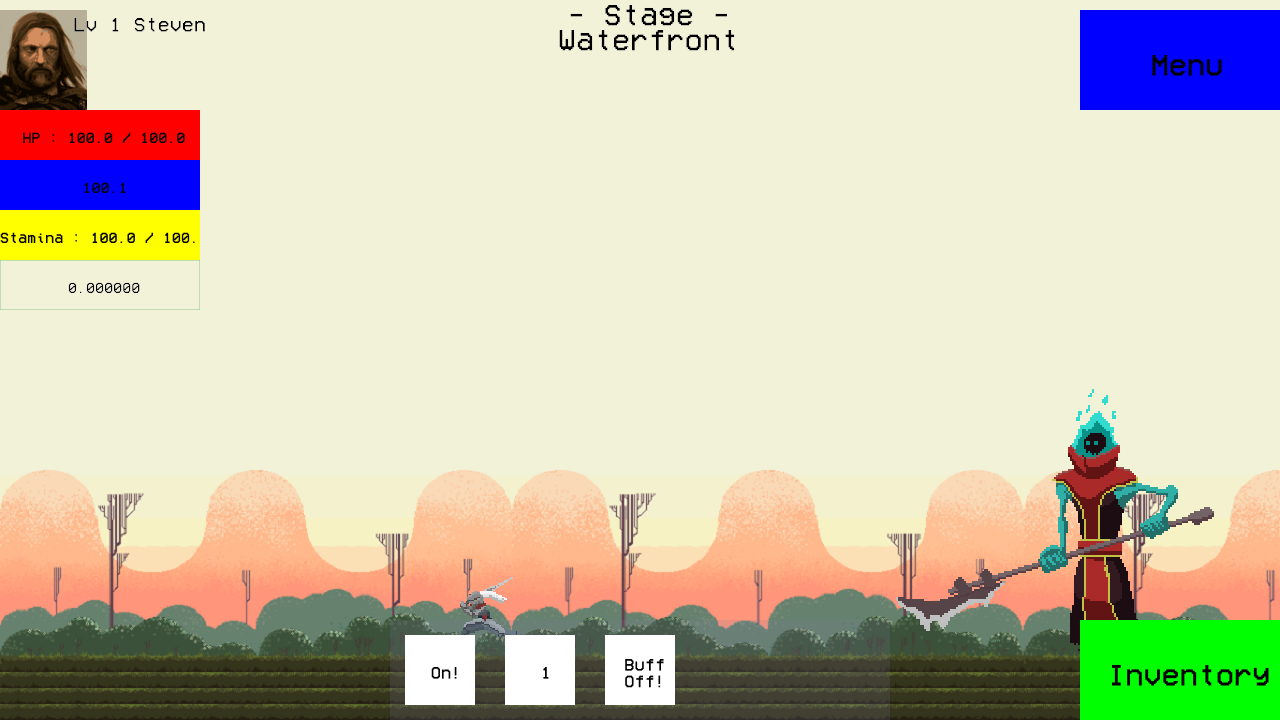
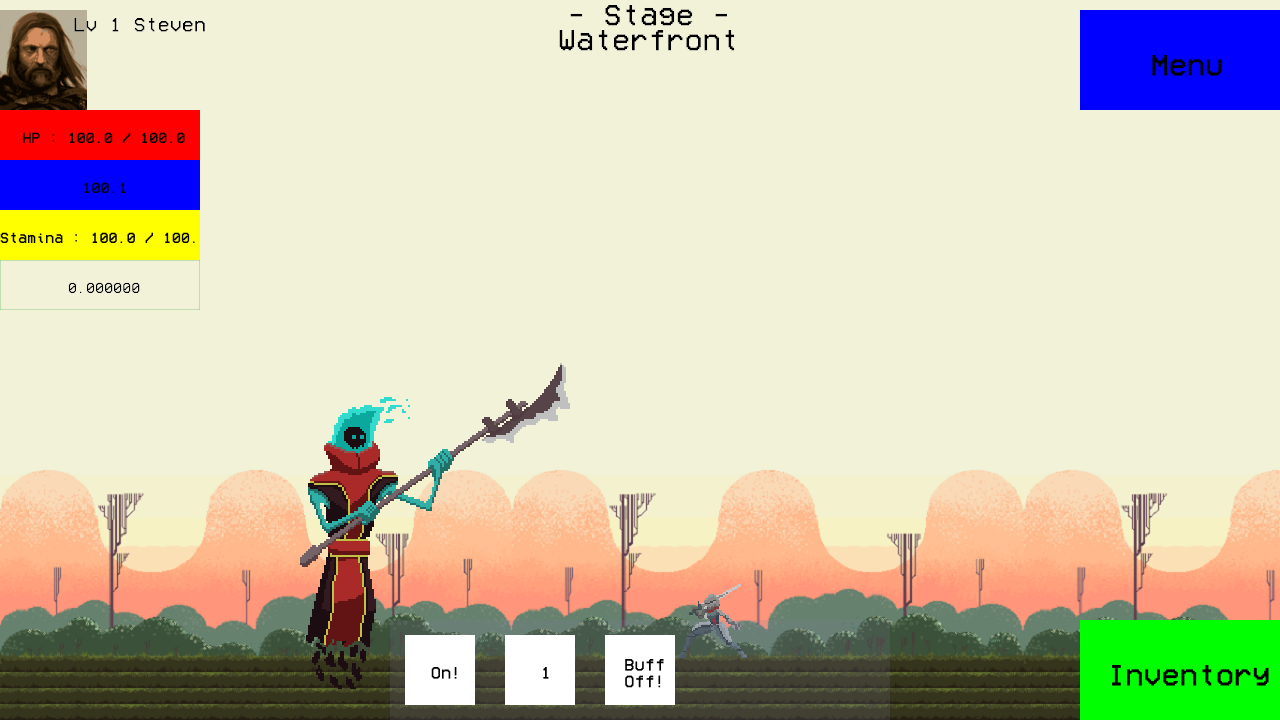
#academy
보스 작업중

diff --git a/OpenGL-portfolio/GameObject/Enermy/GhostWarrior.cpp b/OpenGL-portfolio/GameObject/Enermy/GhostWarrior.cpp
@@ -11,9 +11,14 @@
 #define GhostWarrior_Height 100
 
 static iImage** imgGhostWarrior = NULL;
-
+extern iShortestPath* sp;
+extern int Vilegetiles[40 * 22];
 GhostWarrior::GhostWarrior(int number)
 {
+	movement = 2;
+	oldPosition = position;
+	
+	sp->init(Vilegetiles, vilegeTileNumX, vilegeTileNumY);
 	type = 2;
 	if (imgGhostWarrior == NULL)
 	{
@@ -22,7 +27,7 @@ GhostWarrior::GhostWarrior(int number)
 			"assets/stage/ghostwarrior/Attack/Attack%d.png", 11, 2.0f, {-150, -270},
 			"assets/stage/ghostwarrior/Attack/Attack%d.png", 11, 2.0f, {-150, -270},
 			"assets/stage/ghostwarrior/Fly/fly%d.png", 5, 2.0f, {-150,-270},
-			"assets/stage/ghostwarrior/Fly/fly%d.png", 5, 2.0f, {-150,-270},
+			"assets/stage/ghostwarrior/Fly/fly%6d.png", 5, 2.0f, {-150,-270},
 			"assets/stage/ghostwarrior/Fly/fly%d.png", 5, 2.0f, {-150,-270},
 			"assets/stage/ghostwarrior/Hit/hit%d.png", 6, 2.0f, {-150,-270},
 			"assets/stage/ghostwarrior/Death/death%d.png",8, 2.0f, {-150,-270},
@@ -85,9 +90,11 @@ GhostWarrior::GhostWarrior(int number)
 	speed = 0.0;
 	_speed = 10; // 나중에 이건 바꿔야함
 
-	movement = 100;
+	movement = 225;
 	behave = ObjectBehave::ObjectBehave_NULL;
 	setBehave(ObjectBehave::ObjectBehave_idle, direction);
+
+	_aiTime = 2.0f;
 
 
 }
@@ -108,68 +115,101 @@ GhostWarrior::~GhostWarrior()
 	free(imgs);
 }
 
-extern iShortestPath* sp;
+
+/*
+보스의 알고리즘 패턴
+
+플레이어와 거리 차가 500 이면 플레이어를 발견함 이때 부터 1페이즈 시작
+
+
+보스의 상태
+state (체력 + 시간)
+1페이즈 초반(50% 체력까지, 페이즈 진입후 2분 초과시 바로 2페이즈 진입)      맵을 로밍하면서 플레이어 방향으로 큰 범위공격
+2페이즈 중반(20% 체력까지, 페이즈 진입후 1분 초과시 바로 3페이즈 진입)      플레이어 주위에 지역범위 스킬(번개같은거 사용)
+3페이즈 막반(무제한)                     다시 체력 100%
+*/
+
 
 void GhostWarrior::paint(float dt, iPoint offset, MapTile* tile, int NumX, int NumY)
 {
-	iPoint gwMovement = iPointMake(0, 1) * powGravity * dt;
-	
-	move(v + gwMovement, tile, NumX, NumY);
+	iPoint gwMovement = iPointMake(0, 1) * powGravity * dt ;
+	iPoint mp = v * (movement * dt);
+
+	if(action == false)
+	move(mp  + gwMovement, tile, NumX, NumY);
 
 	img->paint(dt, position + offset);
 
 	// 플레이어 발견 했을때!
-	if (iPointLength(hero->getPosition() - position) < 150)
+	if (iPointLength(hero->getPosition() - position) < 500 && detected_Player == false)
 	{
-		if (detected_Player == false)
-		{
-			printf("Player Detected!\n");
-
-			detected_Player = true;
-		}
-		
+		detected_Player = true;
+		targetPosition = iPointMake(300, position.y);
+		printf("Player Detected!\n");
 	}
-
+	
+//	iPointMake(MapTileWidth * 35, MapTileHeight * 13)
 	if (detected_Player)
 	{
-
-		int sx = position.x;
-		sx /= MapTileWidth;
-
-		int sy = position.y;
-		sy /= MapTileHeight;
-
-		int ex = hero->getPosition().x;
-		ex /= MapTileWidth;
-
-		int ey = hero->getPosition().y;
-		ey /= MapTileHeight;
-
-		sp->dijkstra(sy * NumX + sx, ey * NumX + ex, path, pathNum);
-		sp->removeDuplicate(path, pathNum);
-		
-
-		targetPosition = position;
-
-		pathIndex = 1;
+		Parse = 1;
+	}
 	
-		if (targetPosition != position)
+	if (Parse == 1)
+	{
+		parseDt += 0.01f;
+		
+		if (position != targetPosition)
+		{
 			setBehave(ObjectBehave::ObjectBehave_move, direction);
+			moveForMouse(dt, NumX, NumY);
+			
+		}
+		
+		else
+		{
+			
+			//v = iPointZero;
+			
+			if (aiTime >= _aiTime)
+			{
+			
+				img->leftRight = direction;
+				setBehave(ObjectBehave::ObjectBehave_meleeAttack1, direction);
+				//공격이 끝나면 콜백함수로 aiTime = 0.0f; 해주기 
+			}
+			else
+				setBehave(ObjectBehave::ObjectBehave_idle, direction);
 
-		moveForMouse(dt, NumX, NumY);
+			aiTime += 0.01f;
+		}
+
+
+
+		if (parseDt >= 120.0f || HP <= getMaxHp() * 0.5)
+		{
+			Parse = 2;
+			parseDt = 0.0f;
+		}
+	}
+	else if (Parse == 2)
+	{
+
+	}
+	else if (Parse == 3)
+	{
+		setHP(getMaxHp()); // 다시 체력 100%로
+		
+		// 페이즈 1처럼 행동
 	}
 
-
-	img->leftRight = direction;
-
-	direction = (position.x > targetPosition.x);
-
+	
 }
 
 void GhostWarrior::setBehave(ObjectBehave be, int dir)
 {
 	if (behave != be || direction != dir)
 	{
+		direction = dir;
 		behave = be;
 		img = imgs[(int)be];
 		if (be == ObjectBehave::ObjectBehave_death)
@@ -179,8 +219,7 @@ void GhostWarrior::setBehave(ObjectBehave be, int dir)
 		else if (be == ObjectBehave::ObjectBehave_meleeAttack1)
 			img->startAnimation(cbSkill, this);
 		else
-			img->startAnimation(cbBehave, img);
-		direction = dir;
+			img->startAnimation(cbBehave, this);
 	}
 
 }

diff --git a/OpenGL-portfolio/game/vilege.cpp b/OpenGL-portfolio/game/vilege.cpp
@@ -34,7 +34,7 @@ int Vilegetiles[40 * 22] =
 extern iShortestPath* sp;
 
 static Texture* vilegeTileset[880];
-static MapTile* vilegemaptile;
+ MapTile* vilegemaptile;
 static Texture* texFboVilege;
 static Texture* stageLogo;
 extern Texture* minimapFbo;
@@ -116,6 +116,7 @@ void loadVillege()
 	{
 		GhostWarrior* gw = new GhostWarrior(i);
 		gw->setPosition(iPointMake(MapTileWidth*35, MapTileHeight * 13));
+		gw->targetPosition = gw->getPosition();
 		gw->alive = true;
 		ghostwarriors[i] = gw;
 

diff --git a/OpenGL-portfolio/GameObject/Parents/CanMove.cpp b/OpenGL-portfolio/GameObject/Parents/CanMove.cpp
@@ -44,7 +44,7 @@ void CanMove::move(iPoint movement, MapTile* maptile, int NumX, int NumY)
 				break;
 		}
 		//printf("min = %d, curr = %f\n", min, position.x);
-		position.x += mp.x;
+		position.x += mp.x ;
 		if (position.x < min + size.width / 2)
 			position.x = min + size.width / 2;
 	}

diff --git a/OpenGL-portfolio/GameObject/Enermy/GhostWarrior.h b/OpenGL-portfolio/GameObject/Enermy/GhostWarrior.h
@@ -23,8 +23,12 @@ public:
 public:
 
 	bool detected_Player;
-	iPoint Target_Pos;
+
+	iPoint oldPosition;
 	Object* Target;
+	int Parse = 0; // 0: 플레이어를 발견하지 못한상태
+	float parseDt = 0.0f;
+	bool action = false;
 
 public:
 	
